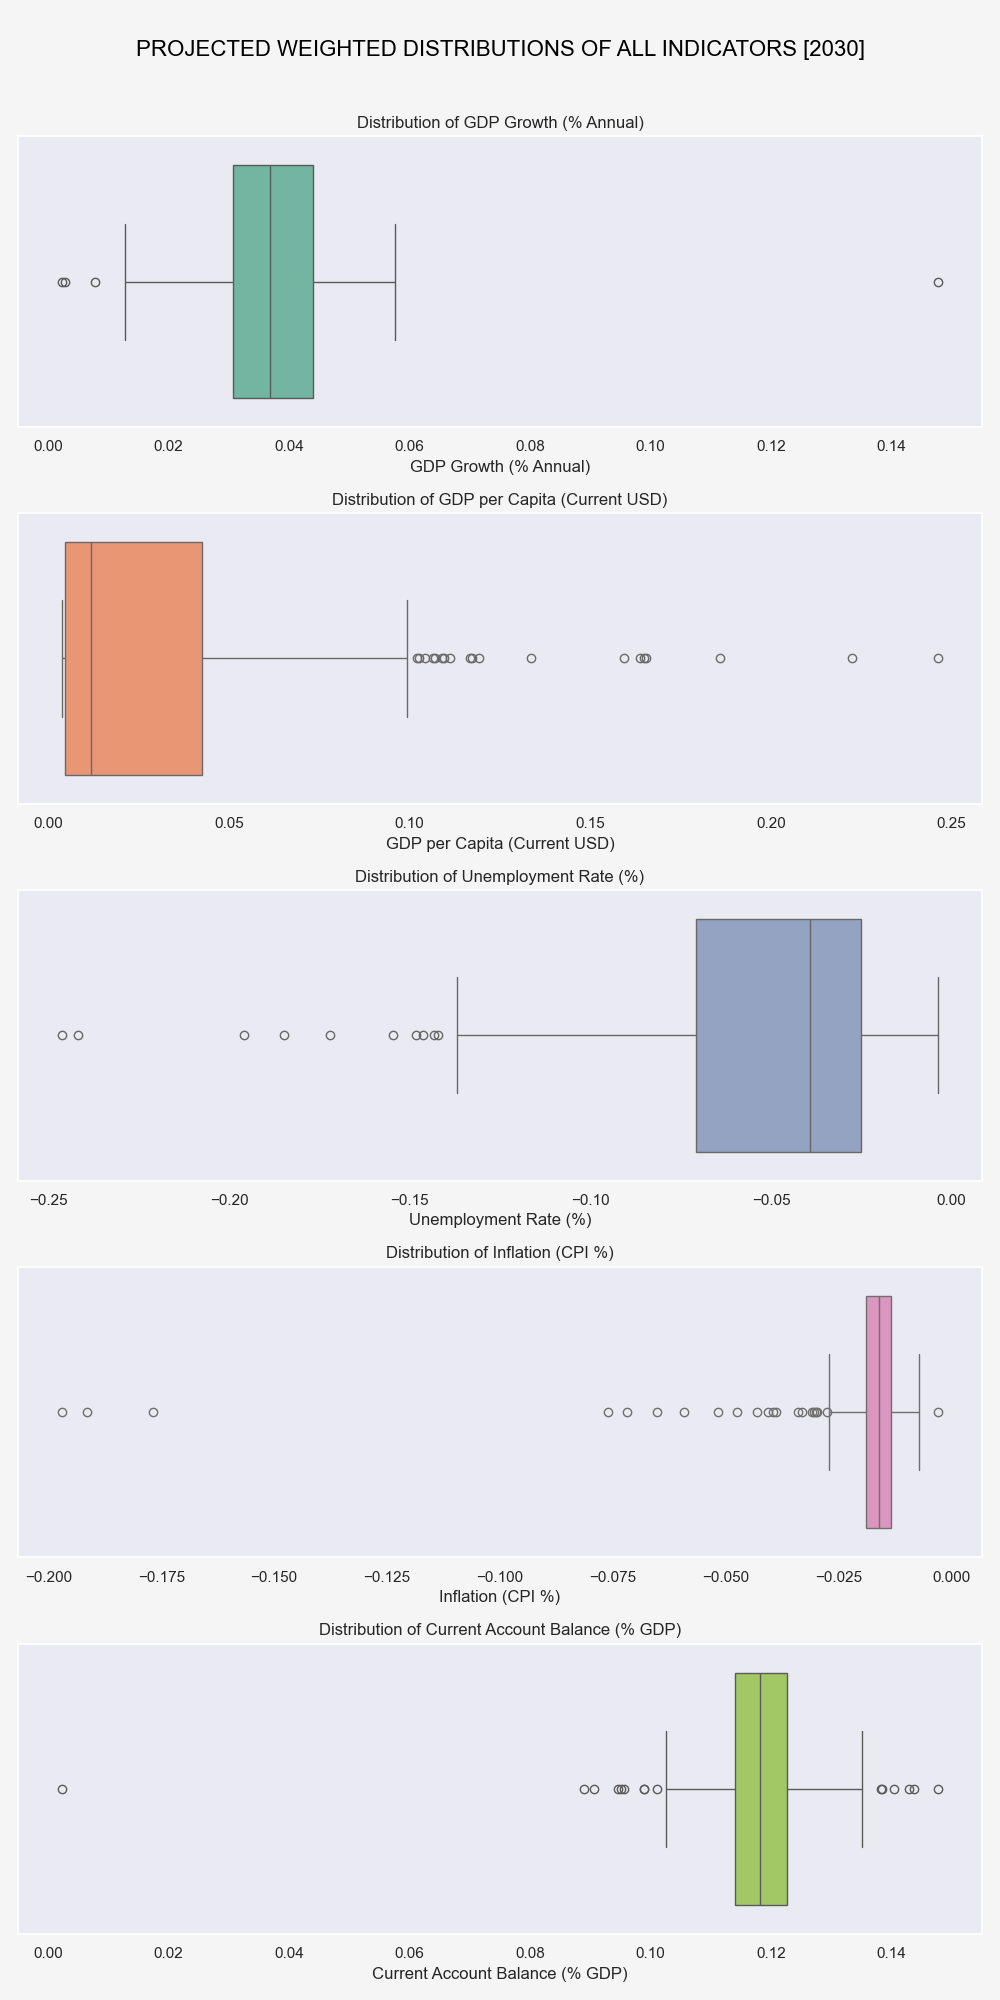
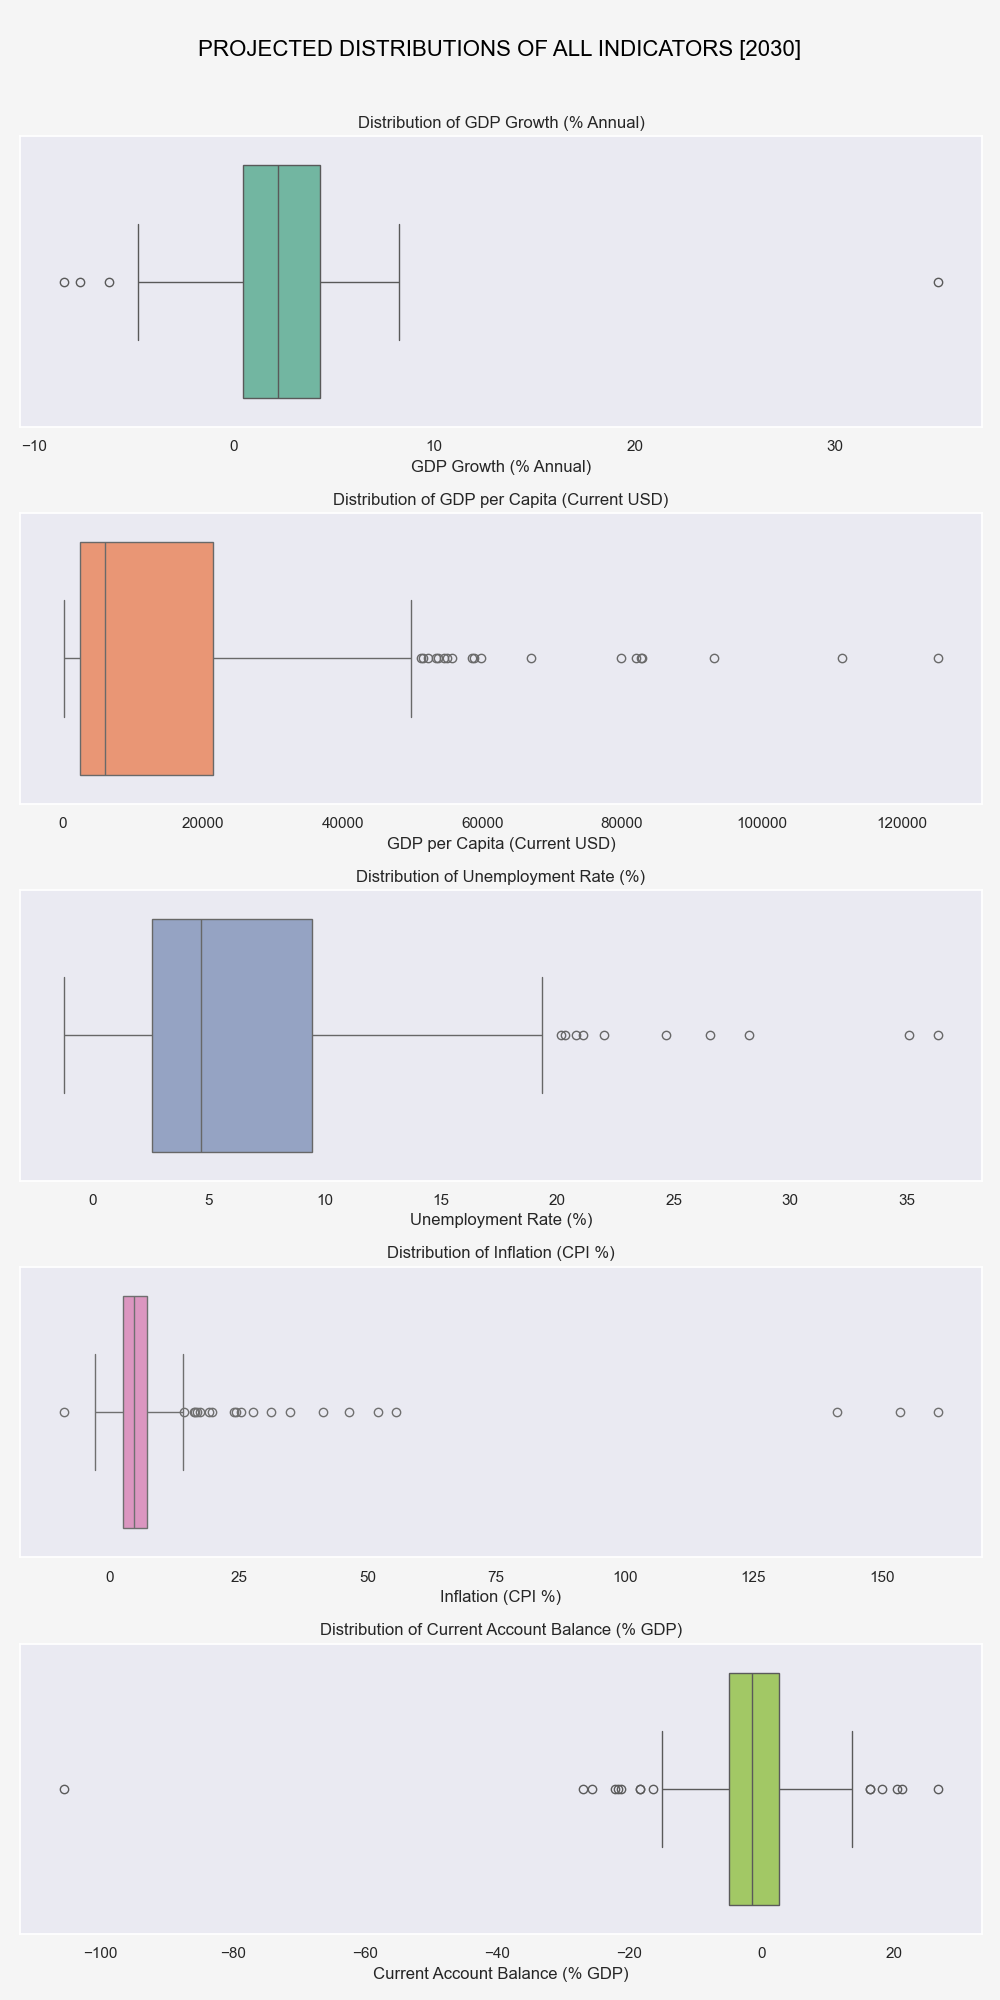
boxplot input 2 changed
switched from weighted_df to projected_2030_df

diff --git a/wb_analysis.py b/wb_analysis.py
@@ -391,8 +391,8 @@ def plot_data_wrapper(clean_df,clean_2025_df,predicted_2030_df,weighted_df,slope
     # top 10 countries by GPI score chart
     plot_bar_chart(normalized_ranked_df,10)       
     # BOX PLOTS TO SHOW DISTRIBUTION OF clean_df and weighted_df ECONOMIC_INDICATORS
-    plot_box_chart(clean_2025_df,title = 'RAW DISTRIBUTIONS OF ALL INDICATORS [2025]',file_name='boxplot_raw_indicators_stacked.png')
-    plot_box_chart(weighted_df,title = 'PROJECTED WEIGHTED DISTRIBUTIONS OF ALL INDICATORS [2030]',file_name='boxplot_weighted_indicators_stacked.png')
+    plot_box_chart(clean_2025_df,title = 'RAW DISTRIBUTIONS OF ALL INDICATORS [2010 - 2025]',file_name='boxplot_raw_indicators_stacked.png')
+    plot_box_chart(predicted_2030_df,title = 'PROJECTED DISTRIBUTIONS OF ALL INDICATORS [2030]',file_name='boxplot_weighted_indicators_stacked.png')
     # global indicator trendline
     plot_global_indicator_trendline_wrapper(clean_df,slopes_with_gdp_df)
 
